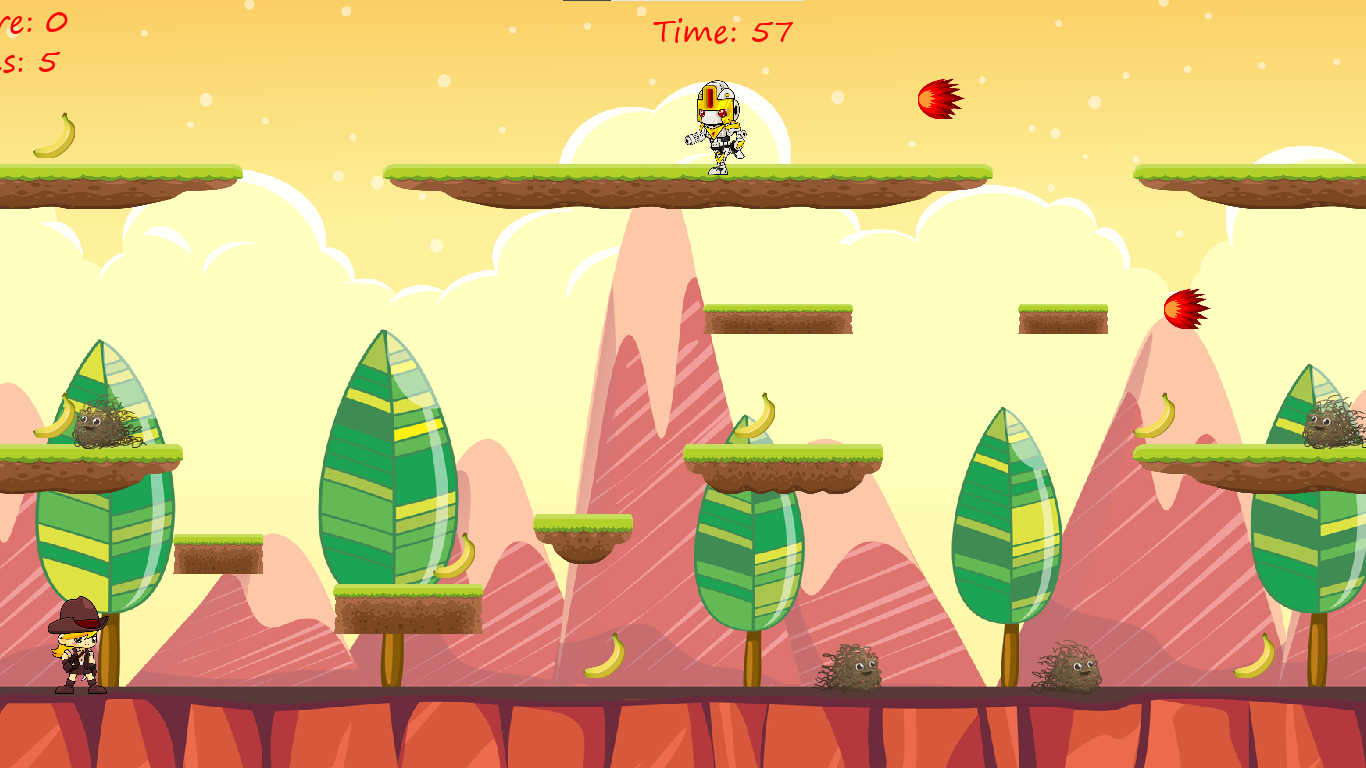
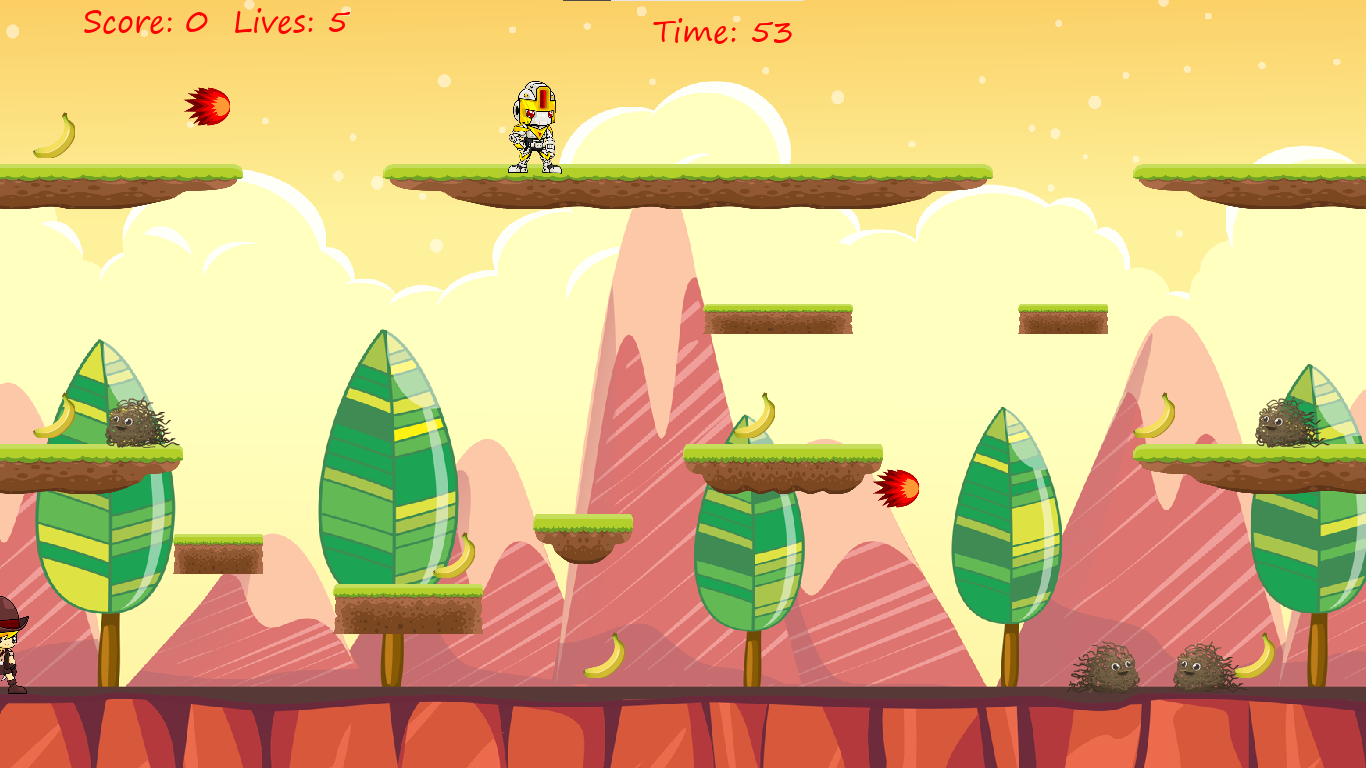
m

diff --git a/player.py b/player.py
@@ -296,8 +296,8 @@ class Player:
             lives_in_screen = self.draw_lives()
             score_in_screen = self.draw_score()
             self.image = self.animation[self.frame]
-            screen.blit(score_in_screen,(10,10))
-            screen.blit(lives_in_screen,(10,50))
+            screen.blit(score_in_screen,(150,10))
+            screen.blit(lives_in_screen,(300,10))
             screen.blit(self.image,self.rect)
         
 
